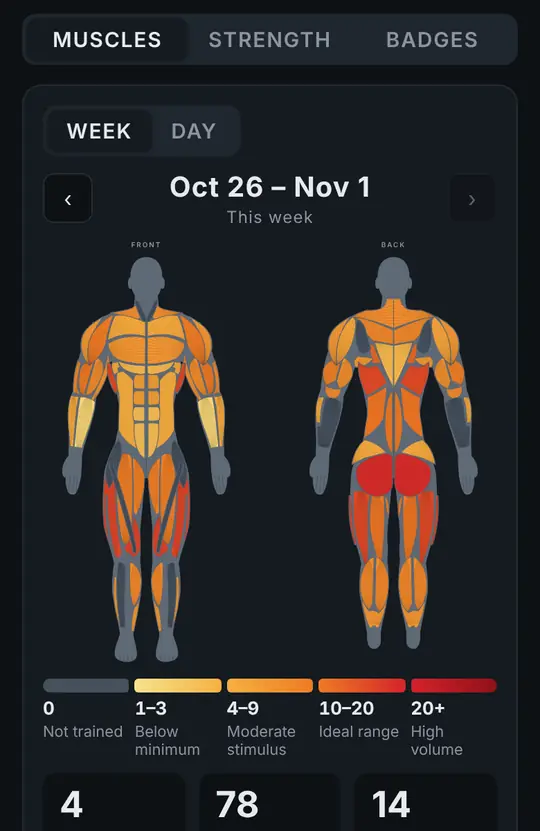
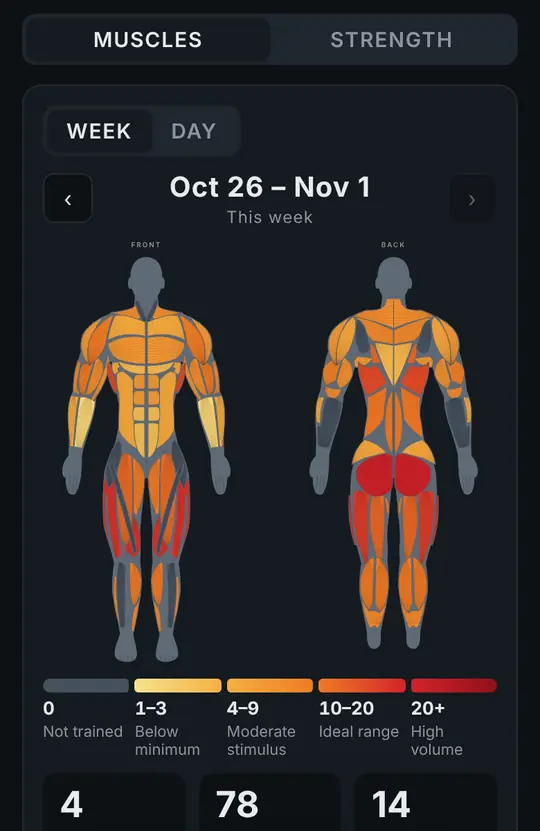
Troféu ao lado do nome abre as Conquistas; apresentação atualizada
- Conquistas saem de Progresso e viram página própria (troféu no cabeçalho, com espaço do nome); 🔥 abre essa página
- Ajuda nova da página de Conquistas (pt/en/es)
- Apresentação: tela de Cardio, Progresso com o cartão de cardio, troféu explicado; prints refeitos (3 idiomas, claro/escuro)
- Cache atlas-v73

Claude-Session: https://claude.ai/code/session_01EWMQ1VJRstatpxuCRUE44d

Changed region(s): [[0.0889, 0.0301, 0.8889, 0.0602]]

diff --git a/index.html b/index.html
@@ -639,6 +639,7 @@ button.wk{border:0;font:inherit;color:inherit;cursor:pointer;width:100%}
 :root{--lv0:#8E959E;--lv1:#2E9E5B;--lv2:#1688C9;--lv3:#9640CF;--lv4:#E0B800;--lv5:#EC6F12;--lv6:#B8182A;--lv7:#EE62BE;--lv8:#4B5058;--lv8a:#2E3238;--lv8b:#B9C0C8;--lv8g:linear-gradient(135deg,#2E3238 0%,#5A616B 38%,#C3CAD2 50%,#5A616B 62%,#3A3F46 100%)}
 @media (prefers-color-scheme: dark){:root:not([data-theme="light"]){--lv0:#8A919B;--lv1:#3DBE70;--lv2:#3AA6E8;--lv3:#B266F0;--lv4:#F5D040;--lv5:#FF8A2E;--lv6:#E02A40;--lv7:#FF8AD2;--lv8:#A3ABB5;--lv8a:#6E7680;--lv8b:#EEF1F4;--lv8g:linear-gradient(135deg,#6E7680 0%,#A3ABB5 38%,#F2F4F6 50%,#A3ABB5 62%,#7A828C 100%)}}
 :root[data-theme="dark"]{--lv0:#8A919B;--lv1:#3DBE70;--lv2:#3AA6E8;--lv3:#B266F0;--lv4:#F5D040;--lv5:#FF8A2E;--lv6:#E02A40;--lv7:#FF8AD2;--lv8:#A3ABB5;--lv8a:#6E7680;--lv8b:#EEF1F4;--lv8g:linear-gradient(135deg,#6E7680 0%,#A3ABB5 38%,#F2F4F6 50%,#A3ABB5 62%,#7A828C 100%)}
+.trophy-btn{margin-left:10px;margin-right:auto}.trophy-btn svg{stroke:var(--accent,var(--target))!important}.trophy-btn[aria-current="page"]{background:var(--chip)}
 button.brand{border:0;background:none;padding:4px 6px;margin:-4px -6px;border-radius:8px;color:inherit;text-align:left;align-items:center;gap:6px}
 button.brand:hover{background:var(--chip)}
 .rk-sec{margin:6px 0 -4px;display:flex;align-items:center;gap:8px}
@@ -683,6 +684,7 @@ button.brand:hover{background:var(--chip)}
 <div class="app" id="app">
   <header>
     <button class="brand" id="brandBtn" aria-label="Muscle Atlas: ir para o início" title="Início"><svg class="logo" viewBox="0 0 512 512" aria-hidden="true"><defs><linearGradient id="lgR" gradientUnits="userSpaceOnUse" x1="0" y1="150" x2="0" y2="500"><stop offset="0" stop-color="#F45A60"/><stop offset="1" stop-color="#B3161E"/></linearGradient><radialGradient id="lgBG" cx=".5" cy=".4" r=".75"><stop offset="0" stop-color="#2A323C"/><stop offset="1" stop-color="#12161B"/></radialGradient></defs><g fill="none" stroke="#8A94A1" stroke-width="7.5" stroke-linecap="round"> <circle cx="256" cy="116" r="94" fill="#1E252D" stroke-width="9"/> <ellipse cx="256" cy="116" rx="47" ry="94"/><path d="M256,22 L256,210"/> <path d="M162,116 L350,116"/> <path d="M174.2,69.0 Q256,82.2 337.8,69.0"/> <path d="M174.2,163.0 Q256,176.2 337.8,163.0"/></g><g fill="#11151A" stroke="#11151A" stroke-width="10" stroke-linejoin="round"><path d="M221.8,344.8 C213.7,370.5 205.6,392.1 201.4,419.3 L226.6,428.7 C241.3,405.5 249.4,383.9 260.2,359.2Z"/><path d="M201.7,422.0 C198.7,443.8 195.7,462.4 196.6,484.8 L211.4,487.2 C219.3,466.2 222.3,447.6 226.3,426.0Z"/><path d="M196,481 C189,488 186,496 194,499 L216,499 C220,495 215,487 210,483 Z"/><path d="M223.8,252.7 C208.1,233.4 194.9,216.6 177.0,198.9 L159.0,213.1 C171.9,234.6 185.1,251.4 200.2,271.3Z"/><path d="M179.5,206.7 C180.2,182.8 181.4,162.4 180.5,138.5 L163.5,137.5 C159.8,161.2 158.6,181.6 156.5,205.3Z"/><path d="M199,268 C195,253 205,243 219,245 C229,248 231,259 225,268 C218,276 204,278 199,268 Z"/><path d="M201.5,424 a12.5,12.5 0 1 0 25,0 a12.5,12.5 0 1 0 -25,0Z"/><path d="M156.5,206 a11.5,11.5 0 1 0 23,0 a11.5,11.5 0 1 0 -23,0Z"/><path d="M161.5,136 a10.5,10.5 0 1 0 21,0 a10.5,10.5 0 1 0 -21,0Z"/><path d="M196.5,486 a7.5,7.5 0 1 0 15,0 a7.5,7.5 0 1 0 -15,0Z"/><g transform="matrix(-1,0,0,1,512,0)"><path d="M221.8,344.8 C213.7,370.5 205.6,392.1 201.4,419.3 L226.6,428.7 C241.3,405.5 249.4,383.9 260.2,359.2Z"/><path d="M201.7,422.0 C198.7,443.8 195.7,462.4 196.6,484.8 L211.4,487.2 C219.3,466.2 222.3,447.6 226.3,426.0Z"/><path d="M196,481 C189,488 186,496 194,499 L216,499 C220,495 215,487 210,483 Z"/><path d="M223.8,252.7 C208.1,233.4 194.9,216.6 177.0,198.9 L159.0,213.1 C171.9,234.6 185.1,251.4 200.2,271.3Z"/><path d="M179.5,206.7 C180.2,182.8 181.4,162.4 180.5,138.5 L163.5,137.5 C159.8,161.2 158.6,181.6 156.5,205.3Z"/><path d="M199,268 C195,253 205,243 219,245 C229,248 231,259 225,268 C218,276 204,278 199,268 Z"/><path d="M201.5,424 a12.5,12.5 0 1 0 25,0 a12.5,12.5 0 1 0 -25,0Z"/><path d="M156.5,206 a11.5,11.5 0 1 0 23,0 a11.5,11.5 0 1 0 -23,0Z"/><path d="M161.5,136 a10.5,10.5 0 1 0 21,0 a10.5,10.5 0 1 0 -21,0Z"/><path d="M196.5,486 a7.5,7.5 0 1 0 15,0 a7.5,7.5 0 1 0 -15,0Z"/></g><path d="M256,246 C240,246 226,248 214,254 C206,268 207,286 214,298 C219,312 226,324 231,336 C233,346 236,354 242,358 L256,362 L270,358 C276,354 279,346 281,336 C286,324 293,312 298,298 C305,286 306,268 298,254 C286,248 272,246 256,246 Z"/><path d="M245,248 C247,238 251,234 256,234 C261,234 265,238 267,248 Z"/><path d="M256,196 C245,196 238,205 238,217 C238,230 246,240 256,240 C266,240 274,230 274,217 C274,205 267,196 256,196 Z"/></g><g fill="url(#lgR)"><path d="M221.8,344.8 C213.7,370.5 205.6,392.1 201.4,419.3 L226.6,428.7 C241.3,405.5 249.4,383.9 260.2,359.2Z"/><path d="M201.7,422.0 C198.7,443.8 195.7,462.4 196.6,484.8 L211.4,487.2 C219.3,466.2 222.3,447.6 226.3,426.0Z"/><path d="M196,481 C189,488 186,496 194,499 L216,499 C220,495 215,487 210,483 Z"/><path d="M223.8,252.7 C208.1,233.4 194.9,216.6 177.0,198.9 L159.0,213.1 C171.9,234.6 185.1,251.4 200.2,271.3Z"/><path d="M179.5,206.7 C180.2,182.8 181.4,162.4 180.5,138.5 L163.5,137.5 C159.8,161.2 158.6,181.6 156.5,205.3Z"/><path d="M199,268 C195,253 205,243 219,245 C229,248 231,259 225,268 C218,276 204,278 199,268 Z"/><path d="M201.5,424 a12.5,12.5 0 1 0 25,0 a12.5,12.5 0 1 0 -25,0Z"/><path d="M156.5,206 a11.5,11.5 0 1 0 23,0 a11.5,11.5 0 1 0 -23,0Z"/><path d="M161.5,136 a10.5,10.5 0 1 0 21,0 a10.5,10.5 0 1 0 -21,0Z"/><path d="M196.5,486 a7.5,7.5 0 1 0 15,0 a7.5,7.5 0 1 0 -15,0Z"/><g transform="matrix(-1,0,0,1,512,0)"><path d="M221.8,344.8 C213.7,370.5 205.6,392.1 201.4,419.3 L226.6,428.7 C241.3,405.5 249.4,383.9 260.2,359.2Z"/><path d="M201.7,422.0 C198.7,443.8 195.7,462.4 196.6,484.8 L211.4,487.2 C219.3,466.2 222.3,447.6 226.3,426.0Z"/><path d="M196,481 C189,488 186,496 194,499 L216,499 C220,495 215,487 210,483 Z"/><path d="M223.8,252.7 C208.1,233.4 194.9,216.6 177.0,198.9 L159.0,213.1 C171.9,234.6 185.1,251.4 200.2,271.3Z"/><path d="M179.5,206.7 C180.2,182.8 181.4,162.4 180.5,138.5 L163.5,137.5 C159.8,161.2 158.6,181.6 156.5,205.3Z"/><path d="M199,268 C195,253 205,243 219,245 C229,248 231,259 225,268 C218,276 204,278 199,268 Z"/><path d="M201.5,424 a12.5,12.5 0 1 0 25,0 a12.5,12.5 0 1 0 -25,0Z"/><path d="M156.5,206 a11.5,11.5 0 1 0 23,0 a11.5,11.5 0 1 0 -23,0Z"/><path d="M161.5,136 a10.5,10.5 0 1 0 21,0 a10.5,10.5 0 1 0 -21,0Z"/><path d="M196.5,486 a7.5,7.5 0 1 0 15,0 a7.5,7.5 0 1 0 -15,0Z"/></g><path d="M256,246 C240,246 226,248 214,254 C206,268 207,286 214,298 C219,312 226,324 231,336 C233,346 236,354 242,358 L256,362 L270,358 C276,354 279,346 281,336 C286,324 293,312 298,298 C305,286 306,268 298,254 C286,248 272,246 256,246 Z"/><path d="M245,248 C247,238 251,234 256,234 C261,234 265,238 267,248 Z"/><path d="M256,196 C245,196 238,205 238,217 C238,230 246,240 256,240 C266,240 274,230 274,217 C274,205 267,196 256,196 Z"/></g><g fill="none" stroke="rgba(70,0,8,.6)" stroke-width="2.8" stroke-linecap="round"><path d="M256,258 L256,352 M216,278 C228,290 244,292 254,286 M243,304 C250,306 262,306 269,304 M244,320 C251,322 261,322 268,320 M246,336 C252,338 260,338 266,336 M238,300 C235,318 236,334 242,350 M202,272 C210,266 218,264 224,266 M231,372 C229,390 224,404 216,414 M246,368 C245,384 241,398 233,410 M210,434 C207,450 205,464 204,474"/><path d="M256,258 L256,352 M216,278 C228,290 244,292 254,286 M243,304 C250,306 262,306 269,304 M244,320 C251,322 261,322 268,320 M246,336 C252,338 260,338 266,336 M238,300 C235,318 236,334 242,350 M202,272 C210,266 218,264 224,266 M231,372 C229,390 224,404 216,414 M246,368 C245,384 241,398 233,410 M210,434 C207,450 205,464 204,474" transform="matrix(-1,0,0,1,512,0)"/></g></svg><h1>Muscle <b>Atlas</b></h1></button>
+    <button class="gear trophy-btn" id="achBtn" aria-label="Conquistas" title="Conquistas"><svg viewBox="0 0 24 24" aria-hidden="true"><path d="M8 4h8v5a4 4 0 0 1-8 0V4ZM8 6H4.5v1.5A3.5 3.5 0 0 0 8 11M16 6h3.5v1.5A3.5 3.5 0 0 1 16 11M12 13v4M8.5 20h7M10 17h4v3h-4z"/></svg></button>
     <nav class="htabs" aria-label="Seções">
       <button data-tab="atlas">Atlas</button>
       <button data-tab="ficha">Meus treinos</button>
@@ -748,6 +750,7 @@ button.brand:hover{background:var(--chip)}
   <section id="tab-treino" class="view page" hidden><div class="wrap" id="treinoBody"></div></section>
   <section id="tab-prog" class="view page" hidden><div class="wrap" id="progBody"></div></section>
   <section id="tab-conf" class="view page" hidden><div class="wrap" id="confBody"></div></section>
+  <section id="tab-ach" class="view page" hidden><div class="wrap" id="achBody"></div></section>
 
   <nav class="btabs" aria-label="Seções">
     <button data-tab="atlas"><svg viewBox="0 0 24 24"><circle cx="12" cy="4.5" r="2.2"/><path d="M5 8.5l7 1.5 7-1.5M12 10v5M12 15l-3 6M12 15l3 6"/></svg>Atlas</button>
@@ -2791,6 +2794,25 @@ HELP.ficha[1]+=tx(`<h4>Cardio</h4><p>Em + Adicionar exercício, toque em Cardio 
 HELP.treino[1]+=tx(`<h4>Cardio</h4><p><b>+ Registrar cardio</b> salva um cardio avulso (tipo, minutos, distância e intensidade) no dia escolhido. Com 20 min ou mais (o forte conta em dobro) ele vale <b>meio treino</b> na sequência 🔥 e na contagem da semana; no dia que já tem musculação, não soma. Sempre entra nos minutos de cardio do Progresso.</p>`,
 `<h4>Cardio</h4><p><b>+ Log cardio</b> saves a standalone cardio session (type, minutes, distance and intensity) on the chosen day. With 20 min or more (hard counts double) it's worth <b>half a workout</b> for the 🔥 streak and the week count; on a day that already has strength training, it adds nothing. It always goes into the cardio minutes in Progress.</p>`,
 `<h4>Cardio</h4><p><b>+ Registrar cardio</b> guarda un cardio suelto (tipo, minutos, distancia e intensidad) en el día elegido. Con 20 min o más (intenso cuenta doble) vale <b>medio entreno</b> en la racha 🔥 y en la cuenta de la semana; en un día que ya tiene musculación, no suma. Siempre suma a los minutos de cardio del Progreso.</p>`);
+HELP.ach=[tx("Conquistas","Achievements","Logros"),tx(
+`<p>Medalhas que você ganha treinando. Abra pelo <b>troféu</b> ao lado do nome Muscle Atlas, ou tocando no 🔥 da aba Hoje.</p>
+<ul><li><b>🔥 Semanas de 3 treinos:</b> semanas seguidas (segunda a domingo) com 3 treinos ou mais. A semana atual não quebra a sequência enquanto não acaba. Cardio sozinho com 20 min ou mais vale meio treino.</li>
+<li><b>Do mês, treinos, peso do corpo, recordes, volume:</b> constância e força.</li>
+<li><b>Cardio:</b> minutos, meta da OMS, distância e calorias.</li>
+<li><b>Engraçadas</b> e <b>ranking de força</b> (de Ameba a Bizarro).</li></ul>
+<p>Uma conquista nova aparece num aviso quando você marca um treino como feito. O botão Compartilhar faz um cartão para Stories.</p>`,
+`<p>Badges you earn by training. Open them from the <b>trophy</b> next to the Muscle Atlas name, or by tapping the 🔥 in Today.</p>
+<ul><li><b>🔥 Weeks of 3 workouts:</b> weeks in a row (Monday to Sunday) with 3 or more workouts. The current week doesn't break the streak until it ends. Cardio on its own with 20 min or more counts as half a workout.</li>
+<li><b>Monthly, workouts, bodyweight, records, volume:</b> consistency and strength.</li>
+<li><b>Cardio:</b> minutes, WHO goal, distance and calories.</li>
+<li><b>Just for fun</b> and <b>strength ranking</b> (from Amoeba to Freak).</li></ul>
+<p>A new badge shows up in a notice when you mark a workout as done. The Share button makes a Story card.</p>`,
+`<p>Medallas que ganas entrenando. Ábrelas con el <b>trofeo</b> junto al nombre Muscle Atlas, o tocando el 🔥 en Hoy.</p>
+<ul><li><b>🔥 Semanas de 3 entrenos:</b> semanas seguidas (lunes a domingo) con 3 entrenos o más. La semana actual no rompe la racha hasta que termina. El cardio solo con 20 min o más vale medio entreno.</li>
+<li><b>Del mes, entrenos, peso corporal, récords, volumen:</b> constancia y fuerza.</li>
+<li><b>Cardio:</b> minutos, meta de la OMS, distancia y calorías.</li>
+<li><b>Divertidos</b> y <b>clasificación de fuerza</b> (de Ameba a Fenómeno).</li></ul>
+<p>Un logro nuevo aparece en un aviso cuando marcas un entreno como hecho. El botón Compartir crea una tarjeta para Stories.</p>`)];
 HELP.cardio=["Cardio",tx(
 `<p>Você pode pôr cardio <b>dentro de um treino</b> (+ Adicionar exercício › Cardio, por exemplo 20 min de esteira no fim) ou registrar um <b>cardio avulso</b> em Hoje › + Registrar cardio.</p>
 <h4>Intensidade (teste da fala)</h4><ul><li><b>Leve:</b> dá para cantar. Menos de ~64% da frequência cardíaca máxima.</li>
@@ -3087,8 +3109,8 @@ $("treinoBody").addEventListener("input",e=>{
   saveW();
 });
 $("treinoBody").addEventListener("click",e=>{
-  /* 🔥 = weeks in a row with 3+ workouts; tapping it opens Progresso › Conquistas */
-  if(e.target.closest("[data-streak]")){pView="ach";setTab("prog");return}
+  /* 🔥 = weeks in a row with 3+ workouts; tapping it opens Conquistas (the trophy page) */
+  if(e.target.closest("[data-streak]")){setTab("ach");return}
   const o=e.target.closest("[data-open]");if(o){openW=o.dataset.open;askDel=false;renderTreino();$("tab-treino").scrollTop=0;return}
   const dy=e.target.closest("[data-day]");
   if(dy){const iso=dy.dataset.day;if(iso>isoDate(new Date()))return;hDate=iso===isoDate(new Date())?null:iso;renderTreino();return}
@@ -3814,7 +3836,7 @@ $("importFile").addEventListener("change",async e=>{
 });
 
 /* ---------------------------------------------------------- tabs + init */
-let tab=LS.get("atlas-tab","atlas");if(tab==="rank"){tab="prog";LS.set("atlas-pview","kg")}if(!["atlas","ficha","treino","prog","conf"].includes(tab))tab="atlas";
+let tab=LS.get("atlas-tab","atlas");if(tab==="rank"){tab="prog";LS.set("atlas-pview","kg")}if(!["atlas","ficha","treino","prog","conf","ach"].includes(tab))tab="atlas";
 /* ---------------------------------------------------------- progress
    Sets done in the period, per muscle: 1 for each target muscle of the
    exercise (the lists it appears in) and 1/2 for each synergist. */
@@ -3918,10 +3940,10 @@ function bandsInfo(){return `<details class="about"><summary>Como as faixas fora
 /* ---------------------------------------------------------- cargas (load progress)
    Per exercise and per day: the heaviest set (kg × reps) and the estimated
    1-rep max, Epley: kg × (1 + reps/30). Only workouts marked as done count. */
-let pView=LS.get("atlas-pview","mus");if(!["mus","kg","ach"].includes(pView))pView="mus";
+let pView=LS.get("atlas-pview","mus");if(!["mus","kg"].includes(pView))pView="mus";
 let kgRange=LS.get("atlas-kgrange","3m");if(!["1m","3m","all"].includes(kgRange))kgRange="3m";
 let kgOpen=null,kgList=[];
-const pvSeg=()=>`<div class="seg pview" role="tablist" aria-label="Tipo de progresso"><button role="tab" data-pv="mus" aria-pressed="${pView==="mus"}">Músculos</button><button role="tab" data-pv="kg" aria-pressed="${pView==="kg"}">Força</button><button role="tab" data-pv="ach" aria-pressed="${pView==="ach"}">${tx("Conquistas","Badges","Logros")}</button></div>`;
+const pvSeg=()=>`<div class="seg pview" role="tablist" aria-label="Tipo de progresso"><button role="tab" data-pv="mus" aria-pressed="${pView==="mus"}">Músculos</button><button role="tab" data-pv="kg" aria-pressed="${pView==="kg"}">Força</button></div>`;
 const numKg=v=>{const n=parseFloat(String(v??"").replace(",","."));return isFinite(n)?n:NaN};
 const e1rm=(kg,r)=>r<=1?kg:kg*(1+r/30);
 const fkg=v=>(Math.round(v*10)/10).toLocaleString(LOC);
@@ -4043,7 +4065,7 @@ function applyRadSel(){
 }
 function renderProg(){
   if(pView==="kg")return renderKg();
-  if(pView==="ach"){$("progBody").innerHTML=`<div class="page-h"><h2>Progresso<button class="help" data-help="prog" aria-label="Sobre esta página" title="Sobre esta página">+</button></h2></div>${pvSeg()}`+achHTML();return}
+  if(pView==="ach"){pView="mus";return setTab("ach")}
   const r=pRange(),T=tally(r,true),body=$("progBody"),B=BANDS[pMode];
   const gs=Object.keys(BASIC).map(g=>[g,T.grp[g]||0]);const done=gs.filter(x=>x[1]>0).sort((a,b)=>b[1]-a[1]),none=gs.filter(x=>!x[1]);
   const top=Math.max(B.bar,...done.map(x=>x[1]));
@@ -4559,14 +4581,18 @@ $("brandBtn").addEventListener("click",()=>setTab("atlas"));
 
 function setTab(t){
   tab=t;LS.set("atlas-tab",t);
-  ["atlas","ficha","treino","prog","conf"].forEach(x=>$("tab-"+x).hidden=(x!==t));
-  $("gearBtn").setAttribute("aria-current",t==="conf"?"page":"false");
+  ["atlas","ficha","treino","prog","conf","ach"].forEach(x=>$("tab-"+x).hidden=(x!==t));
+  $("gearBtn").setAttribute("aria-current",t==="conf"?"page":"false");$("achBtn").setAttribute("aria-current",t==="ach"?"page":"false");
   document.querySelectorAll("[data-tab]").forEach(b=>b.setAttribute("aria-current",b.dataset.tab===t?"page":"false"));
   if(t==="ficha")renderFicha();
   if(t==="treino"){openW=null;askDel=false;hDate=null;hWeek=0;renderTreino()}
   if(t==="prog"){pOff=0;renderProg()}
   if(t==="conf")renderConf();
+  if(t==="ach")renderAch();
 }
+/* Conquistas: its own page, opened by the trophy next to the title (owner: the trophy is the button for achievements) */
+function renderAch(){$("achBody").innerHTML=`<div class="page-h"><h2>${tx("Conquistas","Achievements","Logros")}<button class="help" data-help="ach" aria-label="Sobre esta página" title="Sobre esta página">+</button></h2><p class="lead">${tx("Medalhas por constância, força, cardio e algumas engraçadas. Tudo conta pelos treinos marcados como feitos.","Badges for consistency, strength, cardio and a few funny ones. Everything counts from workouts marked as done.","Medallas por constancia, fuerza, cardio y algunas divertidas. Todo cuenta según los entrenos marcados como hechos.")}</p></div>`+achHTML()}
+$("achBtn").addEventListener("click",()=>setTab("ach"));
 document.querySelectorAll("[data-tab]").forEach(b=>b.addEventListener("click",()=>setTab(b.dataset.tab)));
 
 /* ------------------------------------------------------------------ apresentação (carrossel da 1ª vez)
@@ -4612,14 +4638,16 @@ function introSlides(){
     <p>${tx("Ele fica vermelho e aparece a lista de exercícios, do que <b>mais estimula</b> para o que menos, com o tipo de estudo de cada um.","It turns red and you get the list of exercises, from the <b>most stimulating</b> down, with the kind of study behind each one.","Se pone rojo y aparece la lista de ejercicios, del que <b>más estimula</b> al que menos, con el tipo de estudio de cada uno.")}</p>`);
   S.push(`${img("ex")}<h2>${tx("Escolha o exercício","Pick the exercise","Elige el ejercicio")}</h2>
     <p>${tx("Os músculos que ajudam ficam <b>laranja</b>. Troque pegada, banco ou equipamento e veja o que muda. Em <b>Como fazer</b> tem o passo a passo.","Helper muscles turn <b>orange</b>. Change grip, bench or equipment and see what changes. <b>How to do it</b> has the step by step.","Los músculos que ayudan se ponen <b>naranjas</b>. Cambia agarre, banco o equipo y mira qué cambia. En <b>Cómo hacerlo</b> está el paso a paso.")}</p>`);
+  S.push(`${img("cardio")}<h2>${tx("Cardio também","Cardio too","Cardio también")}</h2>
+    <p>${tx("No botão <b>Cardio</b> do Atlas: corrida, bike, boxe, dança e mais, do que mais gasta para o que menos, com os músculos de cada um. Registre em <b>Hoje › + Registrar cardio</b> ou ponha no treino.","In the Atlas <b>Cardio</b> button: running, cycling, boxing, dancing and more, from the biggest burner down, with the muscles each one works. Log it in <b>Today › + Log cardio</b> or add it to a workout.","En el botón <b>Cardio</b> del Atlas: carrera, bici, boxeo, baile y más, del que más gasta al que menos, con los músculos de cada uno. Regístralo en <b>Hoy › + Registrar cardio</b> o ponlo en el entreno.")}</p>`);
   S.push(`${img("prontos")}<h2>${tx("Treinos prontos ou do seu jeito","Ready-made or your own","Entrenos listos o a tu manera")}</h2>
     <p>${tx("Na aba <b>Treinos</b>, pegue um treino pronto (iniciante ou avançado) ou monte o seu. No boneco, <b>Montar treino</b> monta um com os músculos que você tocar.","In <b>Workouts</b>, grab a ready-made plan (beginner or advanced) or build your own. On the figure, <b>Build a workout</b> makes one from the muscles you tap.","En <b>Entrenos</b>, toma un entreno listo (principiante o avanzado) o arma el tuyo. En el muñeco, <b>Armar entreno</b> arma uno con los músculos que toques.")}</p>`);
   S.push(`${img("live")}<h2>${tx("Treine ao vivo","Train live","Entrena en vivo")}</h2>
     <p>${tx("Em <b>Hoje › Ao vivo</b>, siga série a série: o app conta o descanso, sugere a próxima carga e avisa quando você bate um recorde. Com pressa? Só <b>Marcar como feito</b>.","In <b>Today › Live</b>, go set by set: the app times your rest, suggests the next load and tells you when you hit a record. In a hurry? Just <b>Mark as done</b>.","En <b>Hoy › En vivo</b>, sigue serie a serie: la app cuenta el descanso, sugiere la próxima carga y avisa cuando logras un récord. ¿Con prisa? Solo <b>Marcar como hecho</b>.")}</p>`);
-  S.push(`${img("prog")}<h2>${tx("Veja o que você treinou","See what you trained","Mira lo que entrenaste")}</h2>
-    <p>${tx("Em <b>Progresso</b>, o mapa mostra quanto cada músculo trabalhou na semana e se está na faixa ideal.","In <b>Progress</b>, the map shows how much each muscle worked this week and whether it's in the ideal range.","En <b>Progreso</b>, el mapa muestra cuánto trabajó cada músculo en la semana y si está en el rango ideal.")}</p>`);
+  S.push(`<div class="in-duo">${img("prog")}${img("cprog")}</div><h2>${tx("Veja o que você treinou","See what you trained","Mira lo que entrenaste")}</h2>
+    <p>${tx("Em <b>Progresso</b>, o mapa mostra quanto cada músculo trabalhou na semana e se está na faixa ideal. Embaixo, os minutos de cardio e a meta da OMS.","In <b>Progress</b>, the map shows how much each muscle worked this week and whether it's in the ideal range. Below, your cardio minutes and the WHO goal.","En <b>Progreso</b>, el mapa muestra cuánto trabajó cada músculo en la semana y si está en el rango ideal. Abajo, los minutos de cardio y la meta de la OMS.")}</p>`);
   S.push(`<div class="in-duo">${img("rank")}${img("ach")}</div><h2>${tx("Seu nível e suas conquistas","Your level and badges","Tu nivel y tus logros")}</h2>
-    <p>${tx("Do <b>Ameba</b> ao <b>Bizarro</b>: compare sua força com quem treina e ganhe conquistas a cada semana com 3 treinos. 🔥","From <b>Amoeba</b> to <b>Freak</b>: compare your strength with other lifters and earn badges every week with 3 workouts. 🔥","De <b>Ameba</b> a <b>Fenómeno</b>: compara tu fuerza con quien entrena y gana logros cada semana con 3 entrenos. 🔥")}</p>
+    <p>${tx("Do <b>Ameba</b> ao <b>Bizarro</b>: compare sua força em Progresso › Força. As <b>conquistas</b> ficam no troféu 🏆 ao lado do nome; faça 3 treinos por semana para manter o 🔥.","From <b>Amoeba</b> to <b>Freak</b>: compare your strength in Progress › Strength. <b>Badges</b> live in the 🏆 trophy next to the name; do 3 workouts a week to keep the 🔥 going.","De <b>Ameba</b> a <b>Fenómeno</b>: compara tu fuerza en Progreso › Fuerza. Los <b>logros</b> están en el trofeo 🏆 junto al nombre; haz 3 entrenos por semana para mantener el 🔥.")}</p>
     <p class="in-hint">${tx("Dúvida em alguma tela? Toque no <b>+</b> ao lado do título.","Unsure about a screen? Tap the <b>+</b> next to its title.","¿Dudas en alguna pantalla? Toca el <b>+</b> junto al título.")}</p>`);
   return S;
 }

diff --git a/tools/intro-shots.js b/tools/intro-shots.js
@@ -27,6 +27,9 @@ const seed=()=>{
     for(const [o,t,fn] of [[5,"Superior A",A],[4,"Inferior A",B],[2,"Superior B",C],[1,"Inferior B",D]])
       W.push({id:"w"+(id++),date:day(o+wk*7),title:t,planId:"p"+t,done:true,notes:"",items:fn(f)});
   }
+  // cardio nesta semana: corrida (qua, 30 min moderado) e bike (sáb, 40 min forte)
+  const car=(o,k,min,int)=>({id:"c"+(id++),date:day(o),title:"Cardio",planId:null,done:true,notes:"",items:[{name:k,ref:"cardio:"+k,target:"",notes:"",sets:[{min:String(min),km:"",int,ok:true}]}]});
+  W.push(car(3,"run",30,"m"),car(0,"bike",40,"f"));
   localStorage.setItem("atlas-workouts",JSON.stringify(W));
   const P=[["Superior A",[pl("supino",4,"6-10"),pl("remcurv",4,"6-10"),pl("desenv",3,"8-12"),pl("puxada",3,"8-12"),pl("rosca",3,"10-15"),pl("pushdown",3,"10-15")]],
     ["Inferior A",[pl("agach",4,"6-10"),pl("stiff",3,"8-12"),pl("legpress",3,"10-15"),pl("flexora",3,"10-15"),pl("pant",4,"12-20")]]];
@@ -53,6 +56,9 @@ for(const lang of (process.env.LANGS||"pt,en,es").split(","))for(const theme of 
   // 2. exercício aberto (sinergistas e variações)
   await p.evaluate(()=>{selectExercise(0)});await p.waitForTimeout(400);
   await p.evaluate(()=>{peek=false;render()});await p.waitForTimeout(300);await shot("ex");
+  // 2b. Atlas › Cardio: lista e um cardio aberto (músculos no boneco)
+  await p.evaluate(()=>{curEx=null;openCardioList();cdInt="m";cdMin=30;cdSel="run";paint();render()});await p.waitForTimeout(500);await shot("cardio");
+  await p.evaluate(()=>{cdOn=false;cdSel=null;peek=false;render()});
   // 3. Treinos prontos
   await p.evaluate(()=>{fView="prontos";rtMus=null;rtOpen=null;rtOpen=RT.find(w=>w.lv==="b").id;setTab("ficha")});await p.waitForTimeout(300);await top(".rt-w.open");await shot("prontos");
   // 4. Ao vivo: começa o Superior A e faz uma série
@@ -65,10 +71,11 @@ for(const lang of (process.env.LANGS||"pt,en,es").split(","))for(const theme of 
   await p.click('[data-rp="stop"]').catch(()=>{});
   // 5. Progresso › Músculos
   await p.evaluate(()=>{pView="mus";setTab("prog")});await p.waitForTimeout(500);await top("#tab-prog .pview");await shot("prog");
+  await top("#tab-prog .cbox");await shot("cprog");
   // 6. Progresso › Força (ranking)
   await p.evaluate(()=>{pView="kg";setTab("prog")});await p.waitForTimeout(600);await top("#tab-prog .rk-hero");await shot("rank");
   // 7. Conquistas
-  await p.evaluate(()=>{pView="ach";setTab("prog")});await p.waitForTimeout(400);await top("#tab-prog .pview");await shot("ach");
+  await p.evaluate(()=>setTab("ach"));await p.waitForTimeout(400);await top("#tab-ach .ach-top");await shot("ach");
   await ctx.close();console.log(lang,theme,"ok");
 }
 console.log("errs",errs.filter(e=>!/TUNNEL/.test(e)));await b.close()})();

diff --git a/tests/cardio-carga.js b/tests/cardio-carga.js
@@ -64,7 +64,7 @@ for(const [loc,theme] of [["pt-BR","light"],["es-ES","dark"]]){
   if(C.min!==92||C.who!==74||C.n!==3)bad.push(loc+": soma do cardio "+C.min+"/"+C.who+"/"+C.n);
   await p.evaluate(()=>document.querySelector(".cbox").scrollIntoView({block:"center"}));await p.waitForTimeout(150);await shot("6-progresso");
   const T=await p.evaluate(()=>{const r=pRange();return tally(r).unk.size});if(T)bad.push(loc+": cardio caiu em 'exercício desconhecido'");
-  await p.evaluate(()=>{pView="ach";setTab("prog")});await p.waitForTimeout(300);
+  await p.evaluate(()=>setTab("ach"));await p.waitForTimeout(300);
   const A=await p.evaluate(()=>{const S=achStats();return {c1:achOk(ACH.find(a=>a.id==="c1"),S),cN:S.cN,cMin:S.cMin,sets:S.sets}});console.log(loc,"conquistas",JSON.stringify(A));
   if(!A.c1)bad.push(loc+": conquista primeiro cardio");
   await p.evaluate(()=>{const h=[...document.querySelectorAll(".ach-sec")].find(x=>/Cardio/.test(x.textContent));if(h)h.scrollIntoView({block:"start"})});await p.waitForTimeout(150);await shot("7-conquistas");

diff --git a/sw.js b/sw.js
@@ -1,4 +1,4 @@
-const CACHE="atlas-v72";
+const CACHE="atlas-v73";
 const CORE=["./","./index.html","./manifest.webmanifest","./icon-180.png","./icon-192.png","./icon-512.png","./how/pt.json","./how/en.json","./how/es.json"];
 self.addEventListener("install",e=>{e.waitUntil(caches.open(CACHE).then(c=>c.addAll(CORE)).then(()=>self.skipWaiting()))});
 self.addEventListener("activate",e=>{e.waitUntil(caches.keys().then(ks=>Promise.all(ks.filter(k=>k!==CACHE).map(k=>caches.delete(k)))).then(()=>self.clients.claim()))});

diff --git a/CLAUDE.md b/CLAUDE.md
@@ -18,7 +18,7 @@ App de academia em português (pt-BR), instalável no celular (PWA), publicado p
 - **Trocar exercício** (`swapOpts()`/`openSwap()`, botão ⇄ no Registro, em Meus treinos e no Ao vivo): candidatos vêm das listas ranqueadas dos músculos-alvo do exercício, ordenados por quantos alvos/sinergistas batem.
 - **Montar treino pelo boneco** (botão "＋ Montar treino" no Atlas, `build` = Set de grupos `BASIC`, `buildPlan()`): o dono toca nos músculos; o app pega os mais bem colocados de cada grupo (pula exercícios que só pegam parte menor, como serrátil para peito; 1 por família na 1ª rodada, até 2 depois; compostos 6-10 reps, isolados 10-15 pela lista `ISO`) e oferece "Treinar agora" (Ao vivo) ou "Salvar em Meus treinos". O botão também aparece com um músculo já selecionado (pedido do dono): aí a montagem começa com o grupo desse músculo marcado.
 - **Treinos prontos** (pedido do dono: página nova na aba Treinos; substituiu os antigos "Programas prontos"/`PROG`): sub-abas `fView` (`atlas-fview`) "Meus treinos" | "Treinos prontos" (`fvSeg()`, `renderProntos()`; `openPrograms()` só abre essa página). Dados `RT_SP` (4 divisões: corpo inteiro, superior/inferior, push/pull/legs, um músculo por dia; cada uma com texto curto, "Como funciona" e semana pronta por nível) e `RT` (44 treinos `{id, sp, lv:"b"|"a", n, g?, it:[[família, variação, séries, reps]]}`; iniciante = menos exercícios, 2–3 séries, máquinas, 10–15 reps; avançado = livres, 3–4 séries, compostos 6–10). Nível `rtLv` (`atlas-rtlv`), filtro por músculo `rtMus` (`rtTrains()`: grupo `BASIC` com ≥2 séries diretas, ou o `g` dos treinos de um músculo só; ex.: Costas mostra Costas, Superior A/B, Pull e Corpo inteiro). Cada treino abre (`rtOpen`) com "Treinar agora" (Ao vivo) e "Salvar em Meus treinos"; "Adicionar a semana toda" põe todos com os dias marcados. Ajuda `HELP.prontos`. Fontes em `docs/FONTES.md` (4c). Folha genérica `#gSheet` (`openG()`, `gAct`; ficam logo antes do bloco do "Como fazer" e são usados por Montar treino, Trocar exercício, Programas e Cartão para Stories: ao mexer nesse trecho, rode o teste que passa pelos quatro). `closeModals()` fecha todas as `.modal`.
-- **Conquistas** (Progresso › Conquistas, `pView` `ach`, `achStats()`/`ACH`/`checkAch()`/`achHTML()`; ~90 conquistas em seções `ACH_SEC`; cada uma é `{c, id, i, n, d, v, t, u}` com nome/descrição em `[pt,en,es]` ou função, `achOk()`/`achT()`). Regras do dono:
+- **Conquistas** (pedido do dono: página própria aberta pelo **troféu** ao lado do nome Muscle Atlas, `#achBtn` com `margin-left` para não ficar colado; aba `ach`, `#tab-ach`, `renderAch()`, `HELP.ach`; saiu das sub-abas do Progresso, que agora são só Músculos e Força — `pView="ach"` antigo redireciona; o 🔥 de Hoje abre essa página; `achStats()`/`ACH`/`checkAch()`/`achHTML()`; ~90 conquistas em seções `ACH_SEC`; cada uma é `{c, id, i, n, d, v, t, u}` com nome/descrição em `[pt,en,es]` ou função, `achOk()`/`achT()`). Regras do dono:
   - **Semanas de 3 treinos** (`ACH_GOAL`=3, semana do calendário seg–dom; a atual não quebra enquanto corre): 1, 2, 3, 4, 5, 10, 15, 20, 25, 30, 40, 52 semanas seguidas (`ACH_WEEKS`). O 🔥 da grade de Hoje (`streakNow()`) segue a mesma regra, aparece como "🔥 1 semana · 4 treinos feitos" (antes só o número, que o dono confundiu com "14") e abre Progresso › Conquistas ao tocar; a meta semanal das Configurações só vale para o "2 de 4 treinos".
   - **Do mês**: mês com 12/16/20 treinos, mês perfeito (toda semana que começa no mês com 3), 3/6/12 meses seguidos com 12+.
   - **Peso do corpo** (`BWL`, `BWP`; carga **levantada de verdade**, ≥1 rep, só com barra; peso de `rank.bw`, sem peso fica bloqueada; ♀ ≈ ⅔ das metas ♂): supino, agachamento, terra, desenvolvimento, remada curvada, barra fixa e flexão.
@@ -31,7 +31,7 @@ App de academia em português (pt-BR), instalável no celular (PWA), publicado p
 - **Progresso** (aba `prog`): duas sub-abas. **Músculos**: mapa de calor dos músculos treinados na semana ou no dia, com faixas baseadas em pesquisa, e radar de **Equilíbrio** (6 grupos). **Força** (`pView` `kg`): em cima o **Ranking de força** (nível por grupo em 9 faixas: Ameba, Aprendiz, Frango, Galo, Fortinho, Parrudo, Monstro, Lenda, Bizarro; boneco colorido, peso corporal, ♂/♀ e cargas digitadas); embaixo a evolução de carga por exercício (gráfico da maior carga do dia + força estimada, recorde, última, quanto subiu, 1 mês/3 meses/Tudo).
 - **Nome e logo** (escolha do dono): o app se chama **Muscle Atlas** em todos os idiomas (antes "Atlas Muscular"); no topo "MUSCLE" na cor do texto e "ATLAS" em vermelho. Logo = **Atlas carregando o globo** (pedido do dono): homem atlético de proporções clássicas (o dono achou a 1ª versão "gorila"), de frente, pernas abertas, braços erguidos segurando um globo de linhas de mapa; corpo vermelho (degradê único, contorno grafite, linhas de peito/abdômen/coxas), globo cinza, fundo grafite. Desenho próprio, gerado por script (silhueta = todas as partes com contorno grosso por baixo e preenchimento por cima, metade esquerda espelhada). A logo pequena fica no botão do título (`.brand .logo`, ids `lgR`/`lgBG`) e os ícones `icon-180/192/512.png` vêm do mesmo desenho. (Antes houve uma versão "A de dois músculos + globo", trocada no mesmo dia.) O endereço, o repositório, as chaves do `localStorage` e o `app` do backup continuam `atlas-muscular` (não mudar: quebraria instalações e backups).
 - O título "Muscle Atlas" (`#brandBtn`) leva sempre para o Atlas.
-- **Apresentação** (pedido do dono: carrossel só na 1ª vez que a pessoa abre o link): `#intro`, `openIntro()`/`introSlides()`/`closeIntro()`, marca `atlas-intro`. Quem já tem dados (treinos, treinos montados, peso/cargas do ranking ou `atlas-conf`) não vê; `?intro` na URL força. Telas: boas-vindas (logo), **Instale** (só fora do app instalado, `STANDALONE`; passos para iPhone/Safari, outro navegador no iPhone, Android/Chrome/Samsung Internet e computador; botão "Instalar agora" quando o Chrome manda `beforeinstallprompt`; aviso de que no iPhone o app instalado começa do zero), Atlas, exercício, Treinos prontos, Ao vivo, Progresso, ranking + conquistas (dois prints sobrepostos). No iPhone o app instalado tem armazenamento separado do Safari, então mostra de novo, sem "Instale" (escolha do dono). Prints em `intro/<pt|en|es>-<light|dark>-<atlas|ex|prontos|live|prog|rank|ach>.webp` (tema conforme o app), gerados por `node tools/intro-shots.js` com dados de exemplo e relógio fixo; refazer quando a tela mudar bastante. Rever em Configurações › Apresentação. Todos os testes marcam `atlas-intro` com `addInitScript` para o carrossel não cobrir a tela.
+- **Apresentação** (pedido do dono: carrossel só na 1ª vez que a pessoa abre o link): `#intro`, `openIntro()`/`introSlides()`/`closeIntro()`, marca `atlas-intro`. Quem já tem dados (treinos, treinos montados, peso/cargas do ranking ou `atlas-conf`) não vê; `?intro` na URL força. Telas (atualizadas em nov/2026): boas-vindas (logo), **Instale** (só fora do app instalado, `STANDALONE`; passos para iPhone/Safari, outro navegador no iPhone, Android/Chrome/Samsung Internet e computador; botão "Instalar agora" quando o Chrome manda `beforeinstallprompt`; aviso de que no iPhone o app instalado começa do zero), Atlas, exercício, **Cardio** (lista do Atlas), Treinos prontos, Ao vivo, Progresso (mapa + cartão de cardio, dois prints) e nível + conquistas no troféu (dois prints). No iPhone o app instalado tem armazenamento separado do Safari, então mostra de novo, sem "Instale" (escolha do dono). Prints em `intro/<pt|en|es>-<light|dark>-<atlas|ex|cardio|prontos|live|prog|cprog|rank|ach>.webp` (tema conforme o app), gerados por `node tools/intro-shots.js` com dados de exemplo e relógio fixo; refazer quando a tela mudar bastante. Rever em Configurações › Apresentação. Todos os testes marcam `atlas-intro` com `addInitScript` para o carrossel não cobrir a tela.
 - **Configurações** (aba `conf`, `#tab-conf`, `renderConf()`): abre pela engrenagem no canto superior direito, ao lado da busca (`#gearBtn`). Ajustes em `CONF` (`localStorage` `atlas-conf`, padrões em `CONF_DEF`, `applyConf()`; vai no backup).
   - Funcionam: nome (saudação na aba Hoje), peso e ♂/♀ (os mesmos do ranking), tema (`data-theme`), cor de destaque (`--accent`: título, aba atual e interruptores; o músculo-alvo continua vermelho), tamanho da letra (classes `fs-s`/`fs-l`; `buildFsCSS()` copia todo `font-size` em px das folhas de estilo com fator 0,9/1,15, menos cabeçalho, abas e grade da semana; `zoom` falhou), reduzir animações (`noanim`), séries × reps padrão ao adicionar exercício, meta semanal ("2 de 4 treinos" na grade de Hoje), backup (saiu da aba Hoje), apagar histórico/cargas digitadas/tudo (com confirmação), compartilhar, sugestões (issue no GitHub), fontes e versão (lida do cache do service worker).
   - Idioma: português, inglês ou espanhol (ver **Idioma** abaixo).
@@ -62,7 +62,7 @@ Repositório e conta: **holmgds-gui/atlas-muscular**. Use só a conta `holmgds-g
 ## Como publicar uma mudança
 
 1. Edite `index.html`.
-2. **Suba o número do cache** em `sw.js` (`atlas-v72` → `atlas-v73`). Sem isso, celulares podem continuar com a versão velha.
+2. **Suba o número do cache** em `sw.js` (`atlas-v73` → `atlas-v74`). Sem isso, celulares podem continuar com a versão velha.
 3. Commit na `main` e push. O GitHub Pages publica em ~1 minuto.
 4. Avise o dono: se o celular mostrar a versão antiga, fechar o app por completo e abrir de novo.
 

diff --git a/docs/HISTORICO.md b/docs/HISTORICO.md
@@ -149,6 +149,8 @@ Depois, a pedido do dono ("estude mais e continue dando upgrade"):
 - **Mais cardios** (pedido do dono): lutas e aulas — boxe, muay thai (e kickboxing), jiu-jitsu (e judô), zumba, dança, step e funcional/crossfit, cada um com gasto, músculos e dica. Agora são 16. O botão do Atlas ficou só "Cardio", sem emoji (pedido do dono).
 - **Cardio vale meio treino** (o dono não queria que valesse igual à musculação; perguntou o que o Claude achava e escolheu a recomendação): cardio sozinho com 20 min ou mais (forte conta em dobro) vale 0,5 na sequência 🔥, na contagem da semana e nas conquistas de treinos; menos de 20 min não conta; no dia que já tem musculação, não soma. Ex.: 2 treinos + 2 cardios = 3, e a semana vale.
 - **Cardio no Progresso** (escolhas do dono): o cardio aparece no mesmo boneco de músculos, bem clarinho — 1 série a cada 30 min (até 2 por cardio) nos músculos que ele mais trabalha e meia nos que ajudam. O cartão de cardio ganhou o **anel da meta da OMS** e **barras de minutos por dia** divididas em leve, moderado e forte.
+- **Troféu das conquistas** (pedido do dono): as Conquistas saíram de Progresso e viraram uma página aberta pelo troféu ao lado do nome Muscle Atlas (com espaço entre os dois). O 🔥 de Hoje também abre essa página.
+- **Apresentação atualizada**: tela nova de Cardio, Progresso com o cartão de cardio e a última tela explicando o troféu. Prints refeitos nos 3 idiomas, claro e escuro.
 - Corrigido junto: séries só com a carga planejada não contam mais como feitas no Ao vivo, e a "Última vez" ignora séries sem repetições.
 
 ## 17. Perguntas que o dono fez (respostas resumidas)

diff --git a/README.md b/README.md
@@ -36,7 +36,7 @@ App de academia gratuito, em português, inglês e espanhol, que funciona no nav
 **Progresso**
 - **Músculos:** mapa de calor dos músculos treinados na semana ou no dia, com faixas baseadas em pesquisa, radar de equilíbrio e minutos de cardio da semana com a meta da OMS.
 - **Força:** ranking de força por grupo muscular em 9 níveis (de Ameba a Bizarro), ajustado ao seu peso, sexo e idade, e a evolução da carga de cada exercício.
-- **Conquistas:** ~90 conquistas (semanas seguidas com 3 treinos, mês, peso do corpo, recordes, engraçadas…) e 🔥 da sequência na tela Hoje.
+- **Conquistas** (no troféu ao lado do nome): ~95 conquistas (semanas seguidas com 3 treinos, mês, peso do corpo, recordes, engraçadas…) e 🔥 da sequência na tela Hoje.
 - **Cartão para Stories** da semana, do ranking, do treino e das conquistas.
 
 **Apresentação:** na primeira vez, um carrossel rápido mostra como instalar e como usar cada parte (dá para rever em Configurações).
